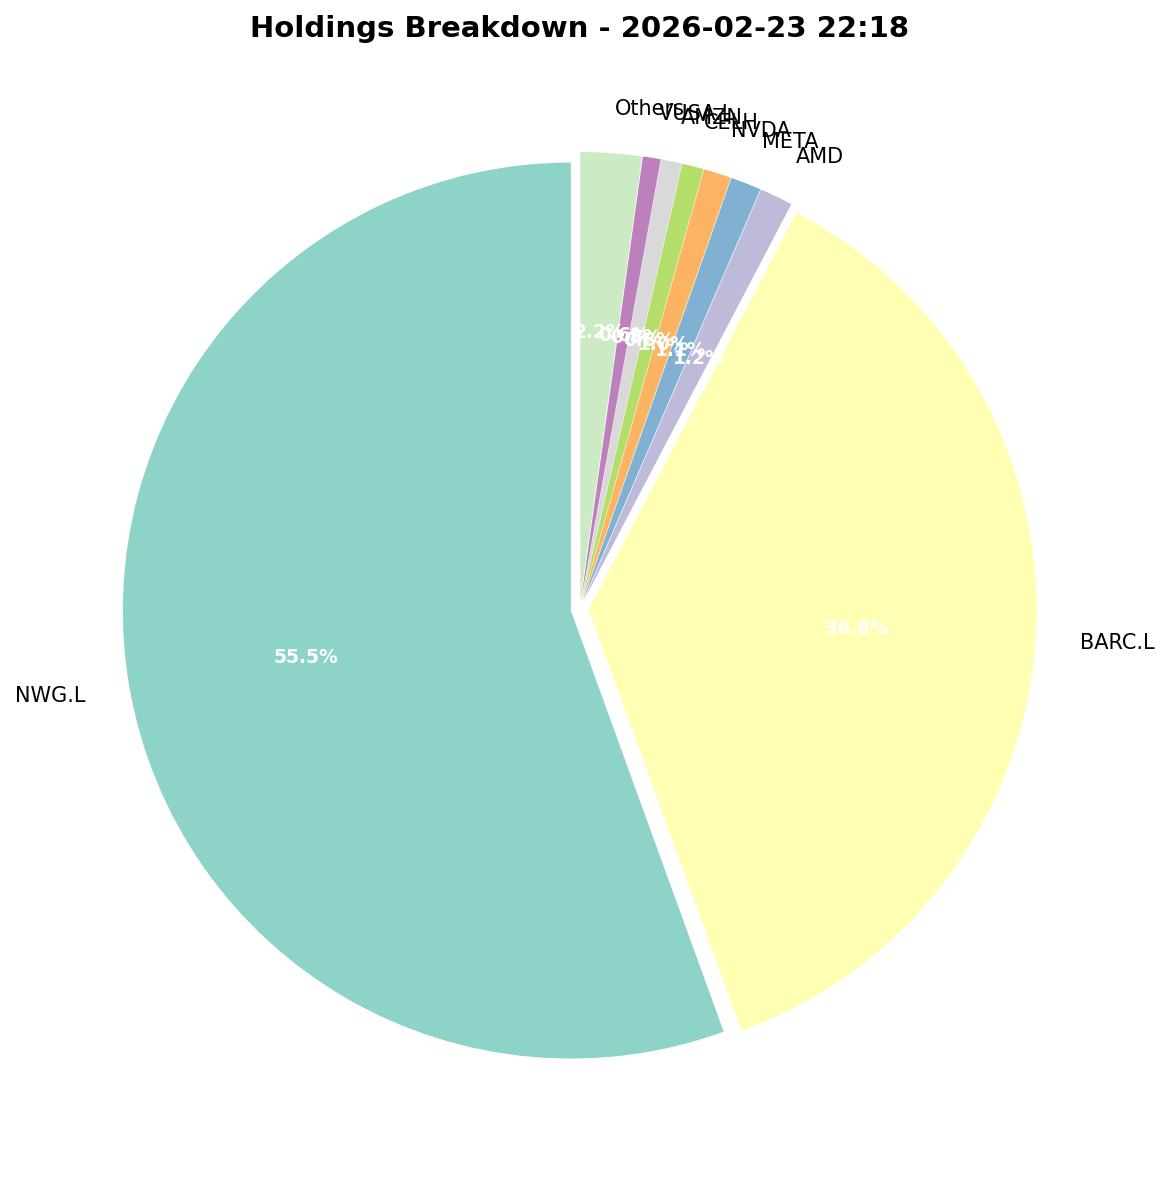
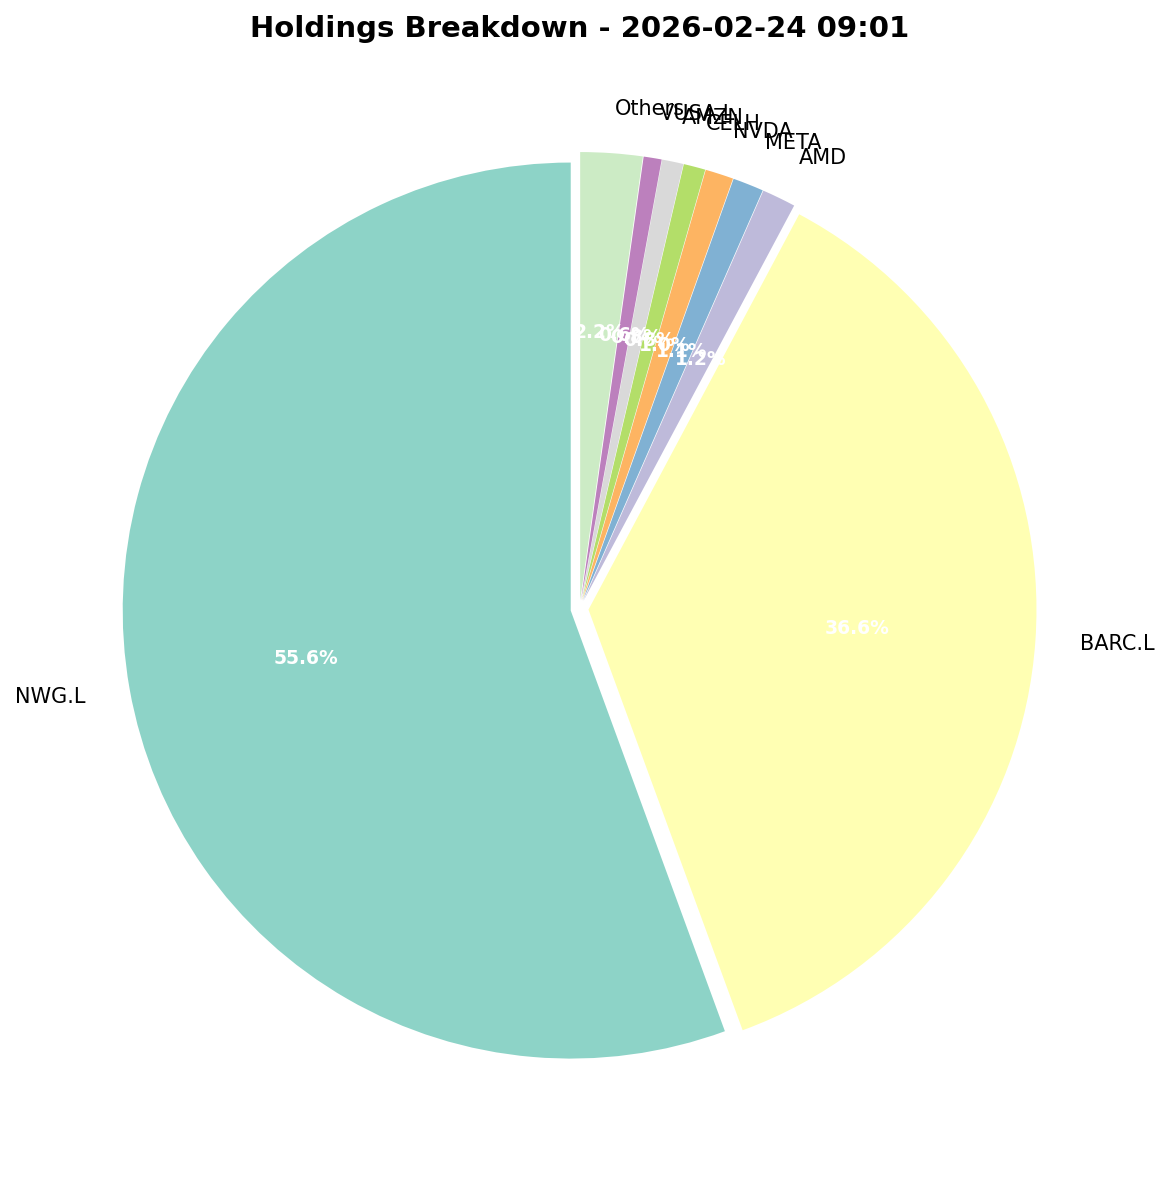
fix: use walletImpact.currentValue for accurate holdings value
- Fix NWG: £1,297 (was showing £129k!)
- Fix BARC: £854 (was showing £85k)
- Use API's GBP-converted values instead of raw price * qty

diff --git a/tracker.py b/tracker.py
@@ -116,7 +116,7 @@ def get_t212_holdings(key_id: str, secret: str) -> list:
                     "current_price": pos.get("currentPrice", 0),
                     "company_name": instrument.get("name", ""),
                     "currency": instrument.get("currencyCode", ""),
-                    "total_value": pos.get("quantity", 0) * pos.get("currentPrice", 0)
+                    "total_value": pos.get("walletImpact", {}).get("currentValue", 0) or pos.get("quantity", 0) * pos.get("currentPrice", 0)
                 })
             return holdings
         else:
